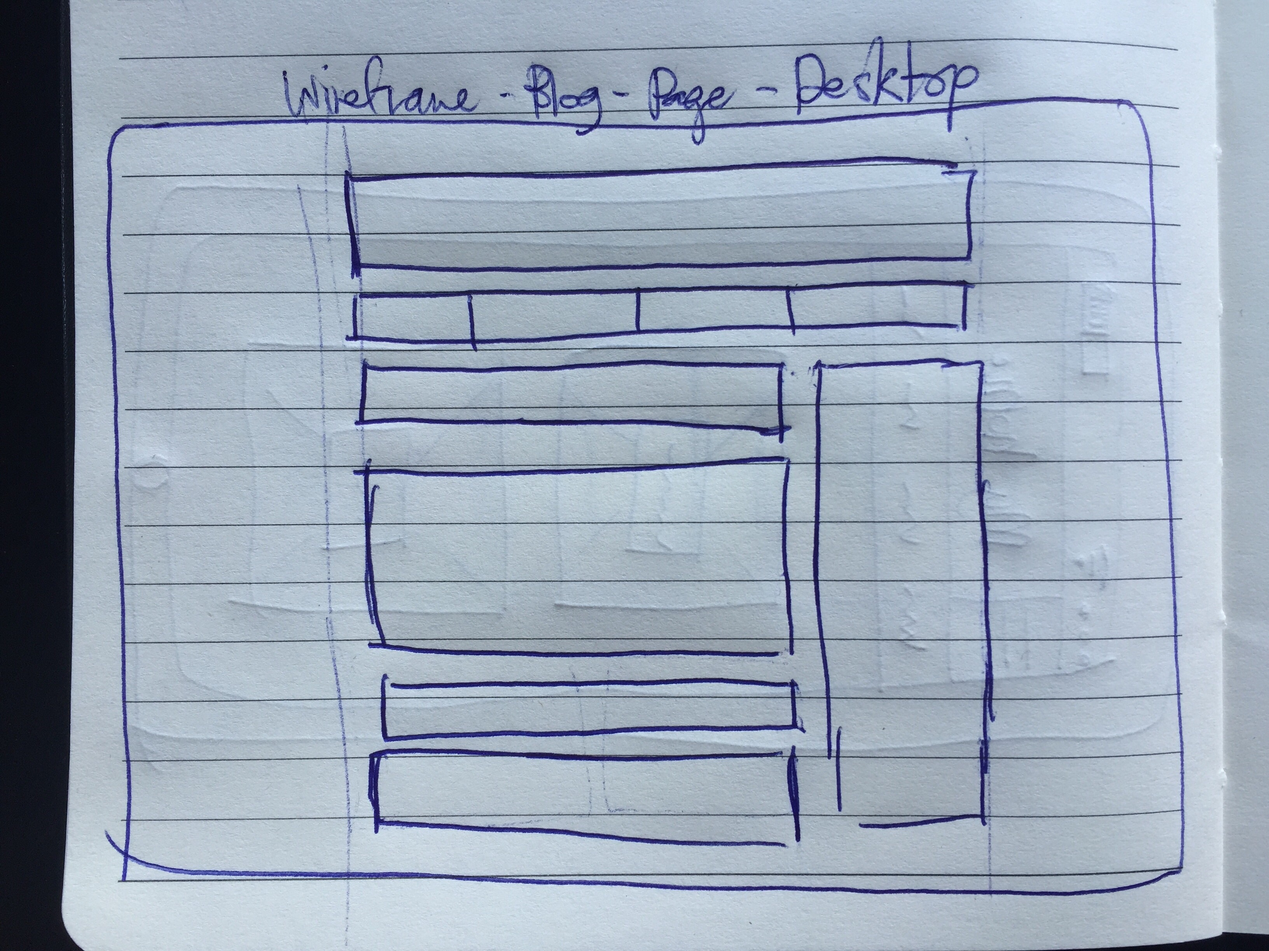
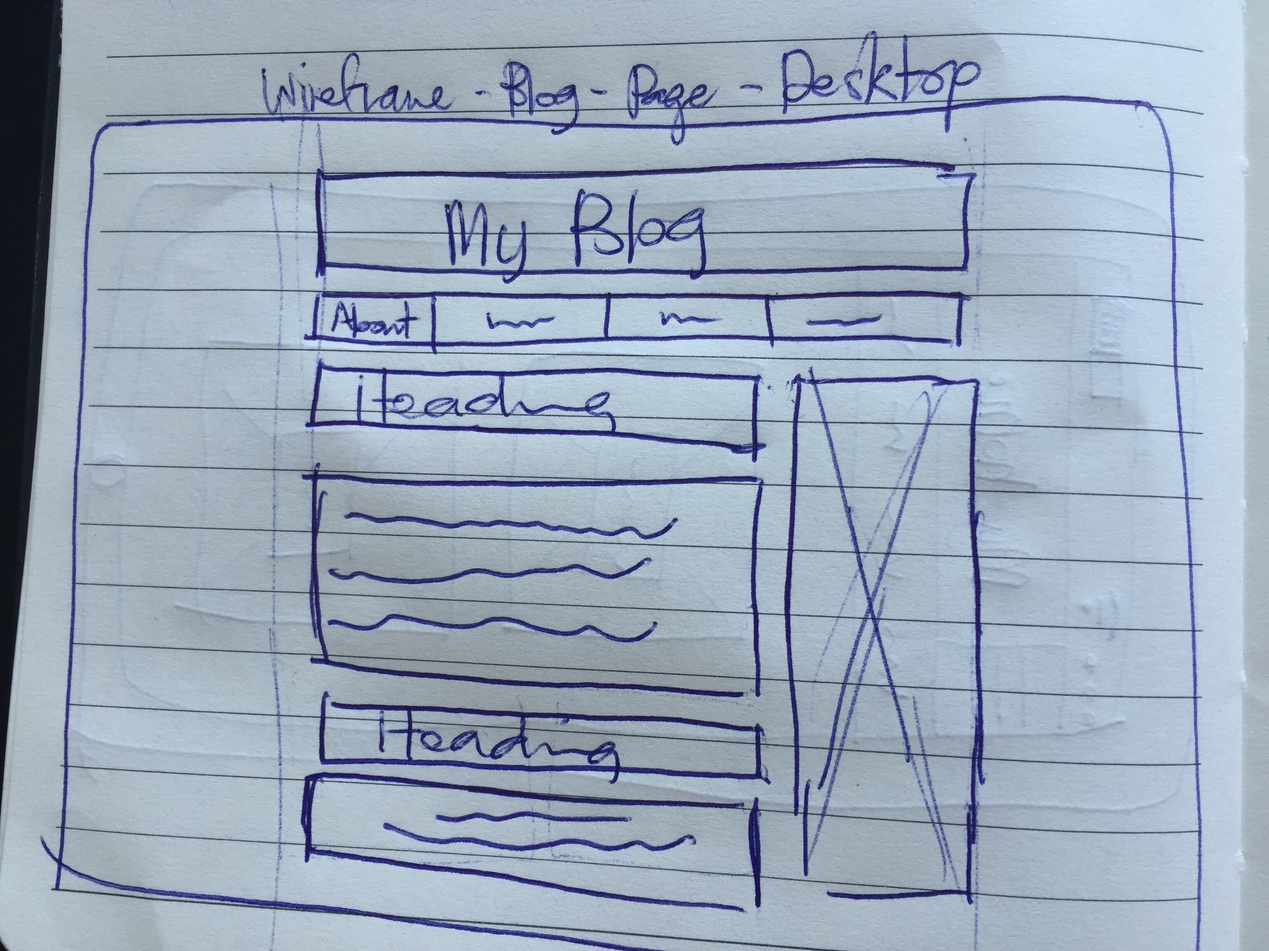
updated wireframes/t3 blog

diff --git a/blog/t3-design-to-web-blog.html b/blog/t3-design-to-web-blog.html
@@ -1,0 +1,26 @@
+<!DOCTYPE html>
+<html>
+  <head>
+    <title>Technical Blog #3</title>
+    <meta charset="UTF-8">
+  <link href="styles/main.css" rel="stylesheet" type="text.css">
+  </head>
+
+  <body>
+
+    <h1>Design to Web</h1>
+
+      <h3>What a responsive site is, and why responsiveness is important.</h3>
+        <p>
+        </p>
+      <h3>What mobile first design is, and why it's important.</h3>
+        <p>
+        </p>
+      <h3>What frameworks are, and their pros and cons</h3>
+        <p>
+        </p>
+      <h3> What a wireframe is and why we use it.</h3>
+      <!-- this is a comment. -->
+
+  </body>
+</html>
